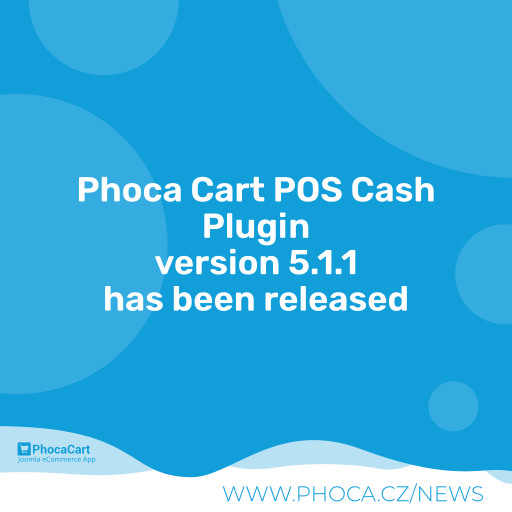
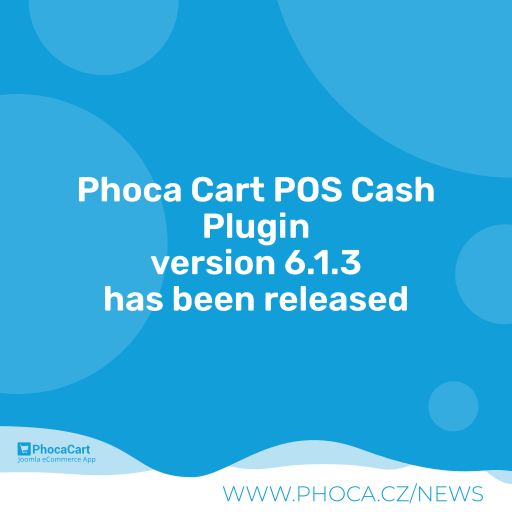
6.1.3

Changed region(s): [[0.2812, 0.4688, 0.7188, 0.5625]]

diff --git a/pos_cash.php b/pos_cash.php
@@ -20,6 +20,7 @@ class plgPCPPos_Cash extends CMSPlugin
 {
 
 	protected $name 	= 'pos_cash';
+	protected $autoloadLanguage = true;
 
 	function __construct(& $subject, $config) {
 		parent :: __construct($subject, $config);

diff --git a/README.MD b/README.MD
@@ -20,81 +20,69 @@ Our compliance with the principles of free and open-source software is establish
 
 *This repository is a shared community resource dedicated to the global open-source ecosystem.*
 
+### Community Feedback & Contributions
 
-## Project page
+We welcome your feedback and active involvement. You can join the development and follow the progress on public, independent GitHub pages at [https://github.com/PhocaCz](https://github.com/PhocaCz).
+Any feedback, bug reports, feature suggestions, or code improvements can be submitted transparently via **GitHub Issues** or **Pull Requests** within the respective repository.
 
-[Phoca Cart POS Cash Plugin](https://www.phoca.cz/phocacart-extensions/2-plugins/32-payment-pos-cash-plugin)
+### Accompanying External Resources
 
-[Phoca Cart Info Page](https://www.phoca.cz/project/phocacart-joomla-ecommerce)
+If you need additional information beyond this GitHub repository, further documentation, updates, and community channels are available on the following external websites:
 
+#### External Project Information
 
-
-## Documentation
-
-[Documentation](https://www.phoca.cz/documentation/category/115-phoca-cart)
-
-
-
-
-
-## Support
-
-[Phoca Forum](https://www.phoca.cz/forum)
-
-:bell: [Phoca Forum RSS](https://www.phoca.cz/forum/app.php/feed)
+- [Phoca Cart POS Cash Plugin](https://www.phoca.cz/phocacart-extensions/2-plugins/32-payment-pos-cash-plugin)
+- [Phoca Cart Info Page](https://www.phoca.cz/project/phocacart-joomla-ecommerce)
+- [Project is listed on Joomla Extensions Directory](https://extensions.joomla.org/)
+- [Project is listed on Phoca download directory](https://www.phoca.cz/download)
 
 
+#### External Documentation
 
-## News
-
-[Phoca News](https://www.phoca.cz/news)
-
-:bell: [Phoca News RSS](https://www.phoca.cz/news?format=feed&type=rss)
-
-:bell: [Phoca Latest Releases RSS](https://www.phoca.cz/download/feed/111?format=feed&type=rss)
+- [Documentation](https://www.phoca.cz/documentation/category/115-phoca-cart)
 
 
+#### External Community Support
 
-## Demo
+- [Phoca Forum](https://www.phoca.cz/forum)
+- [Joomla Forum](https://forum.joomla.org/)
+- [Joomlaportal.cz Forum - Czech](https://www.joomlaportal.cz/forum)
+- [Joomla.de Supportforum - German](https://forum.joomla.de/)
+- :bell: [Phoca Forum RSS](https://www.phoca.cz/forum/app.php/feed)
 
-[Joomla! - Phoca Cart Demo](https://www.phoca.cz/phocacartdemo/)
 
-[Joomla! - Phoca Cart - Phoca Premiere Template Demo](https://www.phoca.cz/phocacartdemo/premiere/)
+#### External News & Feeds
+
+- [Phoca News](https://www.phoca.cz/news)
+- [Joomlaportal.cz News](https://www.joomlaportal.cz/novinky)
+- :bell: [Phoca News RSS](https://www.phoca.cz/news?format=feed&type=rss)
+- :bell: [Phoca Latest Releases RSS](https://www.phoca.cz/download/feed/111?format=feed&type=rss)
 
 
+#### Demo
 
-## Version (Joomla! 3.x)
+- [Joomla! - Phoca Cart Demo](https://www.phoca.cz/phocacartdemo/)
+- [Joomla! - Phoca Cart - Phoca Premiere Template Demo](https://www.phoca.cz/phocacartdemo/premiere/)
 
+### Version (Joomla! 3.x - no longer supported)
 3.5.8
-
-## Version (Joomla! 4.x)
-
+### Version (Joomla! 4.x - no longer supported)
 4.0.12
-
-## Version (Joomla! 5.x)
-
+### Version (Joomla! 5.x - no longer supported)
 5.2.3
+### Version (Joomla! 6.x)
+6.1.3
 
-
-
-## License
+### License
 
 GNU/GPL
 
-
-
 This project is open source project - feel free to contribute! Thank you.
 
-
-
-## Social Media
+### Social Media
 
 - [Phoca on Facebook](https://www.facebook.com/Phoca.cz)
-
 - [Phoca on X (Twitter)](https://twitter.com/PhocaCz)
-
 - [Phoca on YouTube](https://www.youtube.com/user/phocavideos)
-
 - [Phoca on GitHub](https://github.com/PhocaCz)
-
 - [Phoca on Reddit](https://www.reddit.com/user/PhocaCz)

diff --git a/FOSS.md b/FOSS.md
@@ -1,0 +1,13 @@
+Free and Open Source Software (FOSS) Declaration
+
+This project is developed, distributed, and maintained strictly as **Free and Open Source Software (FOSS)**. It is provided entirely outside the course of any commercial activity as an independent public resource.
+
+Our compliance with the principles of free and open-source software is established by the following structural and operational guidelines:
+
+* **Strictly Non-Commercial & Public Good:** This software is provided 100% free of charge. No commercial entities control or fund this repository, and there are no commercial monetization models, paid subscriptions, or premium paywalls associated with this codebase.
+* **Independent Volunteer Contributions:** The development, maintenance, and testing of this extension are driven entirely by independent, voluntary contributions from the global community.
+* **No Commercial Technical Support:** Technical support is not provided as a paid commercial service by the maintainers of this repository. Community assistance is available on a voluntary, non-binding basis via public forums.
+* **No Proprietary Lock-in:** The software is licensed under the copyleft GNU General Public License (GPL). You have absolute freedom to run, study, share, modify, and redistribute the code.
+* **Decentralized Infrastructure:** This codebase is hosted in a public, transparent repository on GitHub to foster open collaborative development and public peer review, ensuring safety and quality through community vigilance.
+
+*This repository is a shared community resource dedicated to the global open-source ecosystem.*